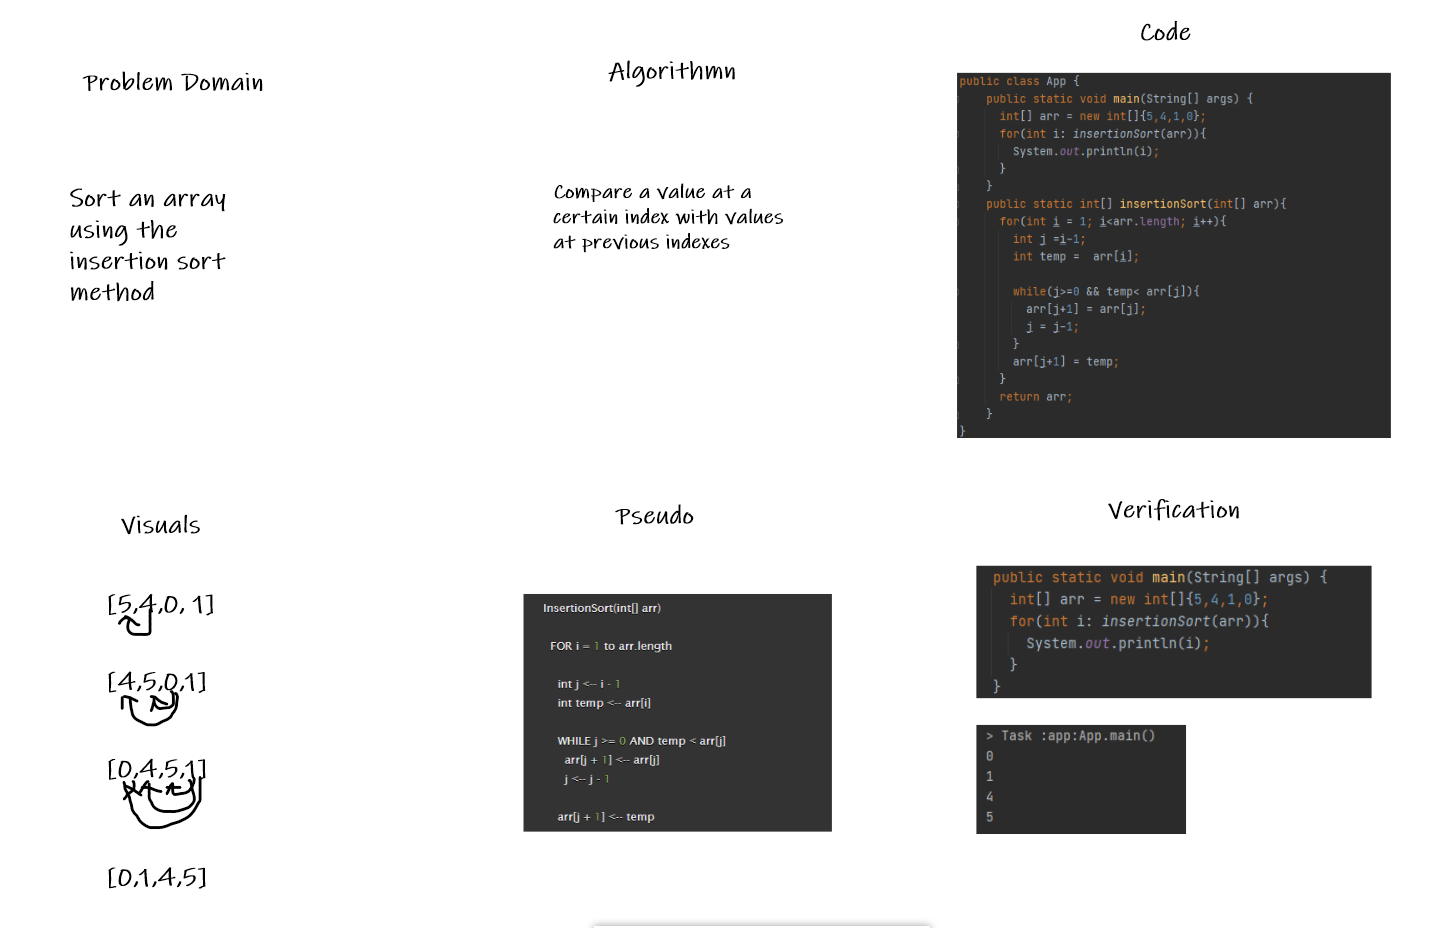
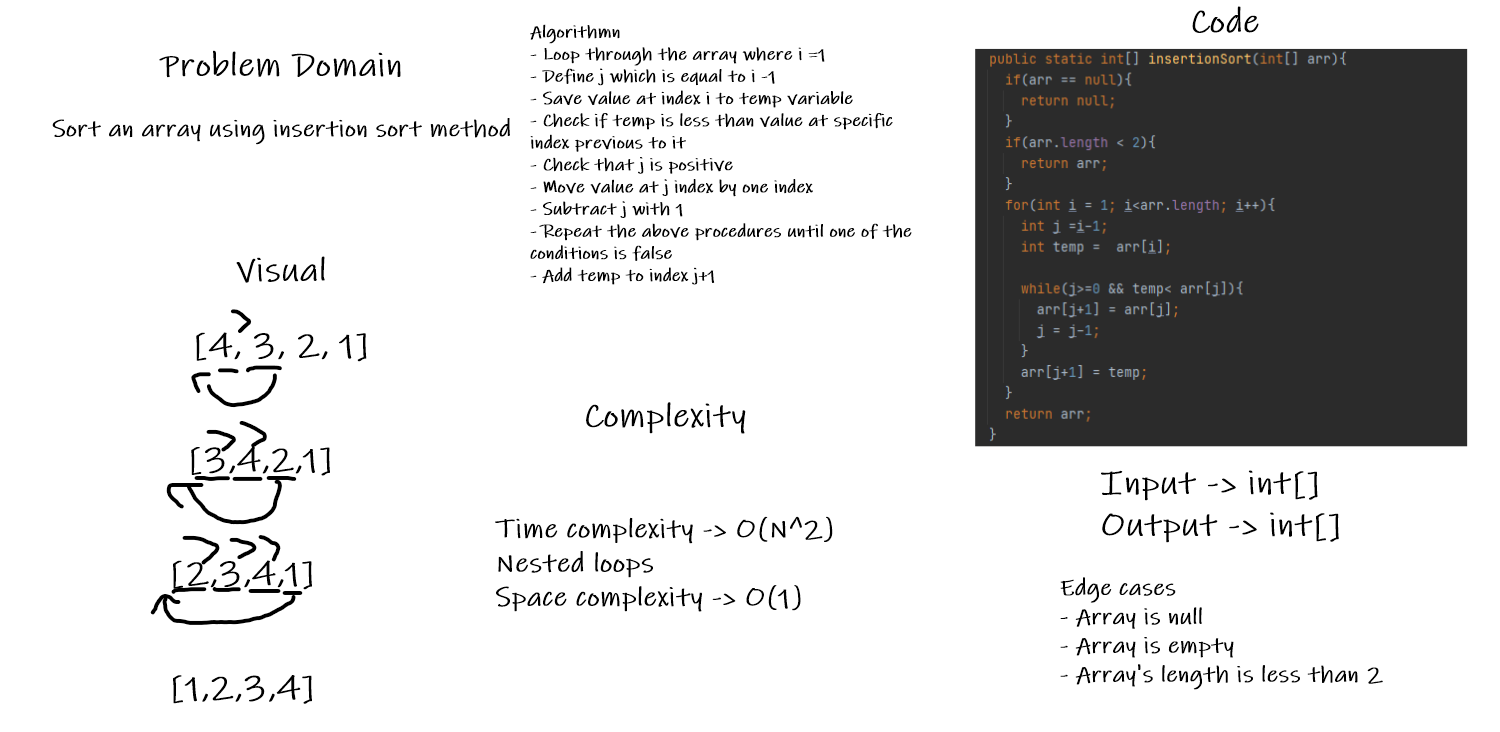
updated readme file, added whiteboard, added blog

diff --git a/code-challenges/insertion_sort/app/src/main/java/insertion_sort/App.java b/code-challenges/insertion_sort/app/src/main/java/insertion_sort/App.java
@@ -14,6 +14,9 @@ public class App {
       if(arr == null){
         return null;
       }
+      if(arr.length < 2){
+        return arr;
+      }
       for(int i = 1; i<arr.length; i++){
         int j =i-1;
         int temp =  arr[i];
@@ -27,3 +30,6 @@ public class App {
       return arr;
     }
 }
+
+
+

diff --git a/code-challenges/insertion_sort/app/src/test/java/insertion_sort/InsertionSortTest.java b/code-challenges/insertion_sort/app/src/test/java/insertion_sort/InsertionSortTest.java
@@ -18,5 +18,7 @@ public class InsertionSortTest {
     assertTrue(Arrays.equals(App.insertionSort(arr), sortedArr));
     assertEquals(0, App.insertionSort(new int[]{}).length);
     assertEquals(null, App.insertionSort(null));
+    arr = new int[]{1};
+    assertEquals(arr, App.insertionSort(arr));
   }
 }

diff --git a/blogs/code-challenge-26/BLOG-26.md b/blogs/code-challenge-26/BLOG-26.md
@@ -1,0 +1,44 @@
+# Insertion Sort
+
+In this method, an array is sorted using the insertion sort method. The array is loop through starting at index 1, where the value is compared with values at previous indexes (at j index). If the value at previous indexes is found to be greater than value at index i, it takes the place of index i. When a value at a previous index is found to be less than value at index i, index i is placed in the index right after that one (j+1).
+
+Pseudo Code
+
+        InsertionSort(int[] arr)
+  
+        FOR i = 1 to arr.length
+        
+        int j <-- i - 1
+        int temp <-- arr[i]
+        
+        WHILE j >= 0 AND temp < arr[j]
+            arr[j + 1] <-- arr[j]
+            j <-- j - 1
+            
+        arr[j + 1] <-- temp
+
+## Trace
+
+Sample Array: [4,3,2,1]
+
+Pass 1:
+
+![altText](./pass_1.PNG)
+
+Pass 2:
+
+![altText](./pass_2.PNG)
+
+Pass 3:
+
+![altText](./pass_3.PNG)
+
+
+## Efficency
+
+Time: O(n^2)
+
+The method has nested loops
+
+Space: O(1)
+Only the temp variable is used to keep track of value at arr[i]

diff --git a/README.md b/README.md
@@ -402,4 +402,28 @@ Space complexity -> O(1)
 
 - [Code Challenge 7 whiteboard](./assets/code_challenge_7_whiteboard.PNG)
 
+### Challenge (Code challenge 26)
+
+Sort an array using insertion sort method
+
+### Approach & Efficiency
+
+- Loop through the array where i =1
+- Define j which is equal to i -1
+- Save value at index i to temp variable
+- Check if temp is less than value at specific index previous to it 
+- Check that j is positive
+- Move value at j index by one index
+- Subtract j with 1
+- Repeat the above procedures until one of the conditions is false
+- Add temp to index j+1
+
+Time complexity -> O(N^2), nested loops
+Space complexity -> O(1)
+
+### Solution
+
+- [Code Challenge 26 whiteboard](./assets/code_challenge_26_whiteboard.PNG)
+- [Blog - Code Challenge 26](./blogs/code-challenge-26/BLOG-26.md)
+
 
